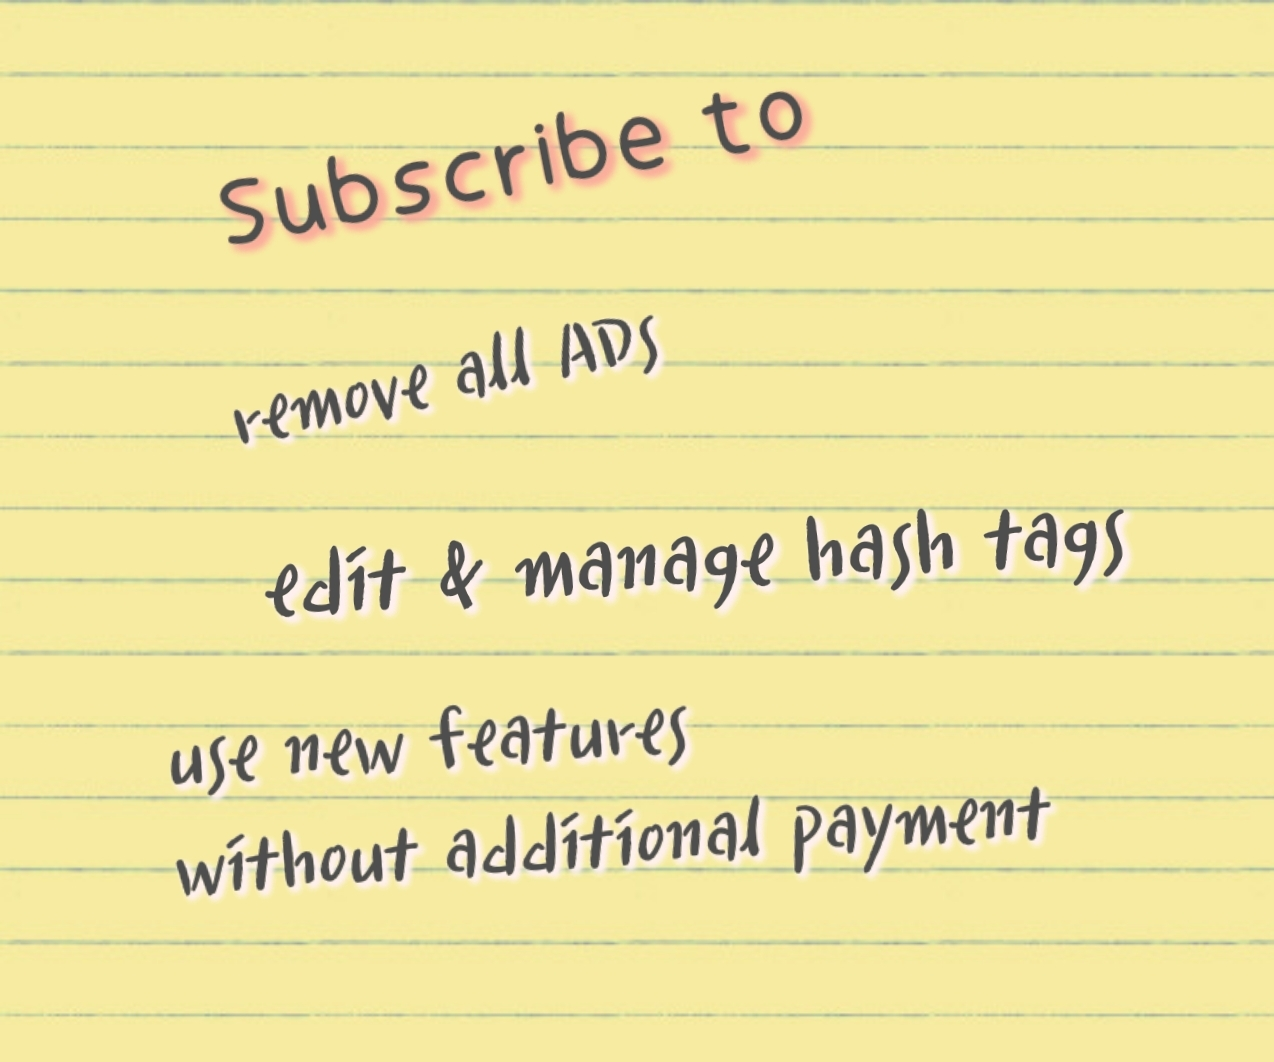
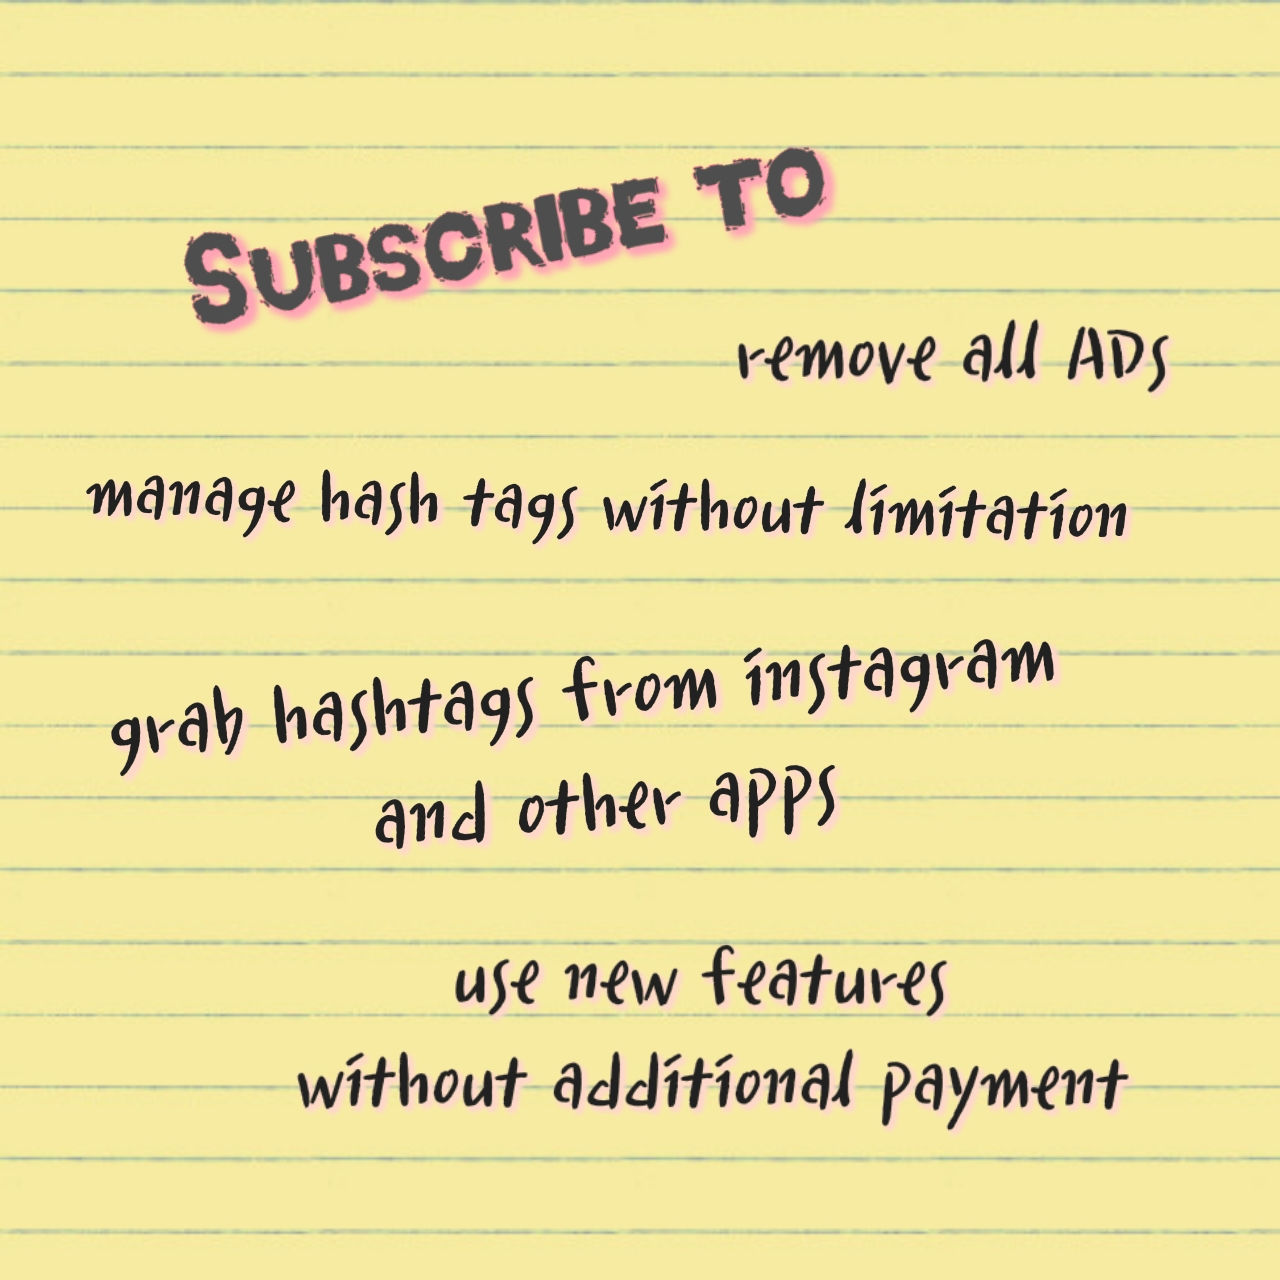
add some....

Changed region(s): [[0.0, 0.0311, 1.0, 0.9633], [0.7653, 0.1243, 0.7959, 0.1554]]

diff --git a/example/lib/ui/pages/main/tag_list_page.dart b/example/lib/ui/pages/main/tag_list_page.dart
@@ -6,6 +6,7 @@ import 'package:neon/neon.dart';
 import 'package:screen_capture_event_example/common/ad/banner_ad_widget.dart';
 import 'package:screen_capture_event_example/common/lifecycle/lifecycle_watcher_state.dart';
 import 'package:screen_capture_event_example/common/payment/payment_service.dart';
+import 'package:screen_capture_event_example/common/util/file_utils.dart';
 import 'package:screen_capture_event_example/common/util/time_utils.dart';
 import 'package:screen_capture_event_example/model/hashtag.dart';
 import 'package:screen_capture_event_example/repositories/hashtag_repository.dart';
@@ -66,7 +67,7 @@ class _TagListPageState extends LifecycleWatcherState<TagListPage> {
         image: null,
         packageImage: PackageImage.Image_1,
         title: 'No hash tags',
-        subTitle: 'Grab hash tags from Instagram!',
+        subTitle: 'Grab hash tags!',
         titleTextStyle: const TextStyle(
           fontSize: 22,
           color: Color(0xff9da9c7),

diff --git a/example/lib/repositories/hashtag_repository.dart b/example/lib/repositories/hashtag_repository.dart
@@ -1,5 +1,6 @@
 import 'package:screen_capture_event_example/common/sqlite/hashtag_db.dart';
 import 'package:screen_capture_event_example/common/sqlite/hashtag_table.dart';
+import 'package:screen_capture_event_example/common/util/file_utils.dart';
 import 'package:screen_capture_event_example/common/util/time_utils.dart';
 
 class HashTagRepository {
@@ -8,7 +9,7 @@ class HashTagRepository {
 
   static Future<int> save(final Map<String, dynamic> data) async {
     data['favorite'] = 0;
-    data['title'] = 'copied from Instagram';
+    data['title'] = 'copied from ' +  FileUtils.getCurrentApp();
 
     return await HashTagDb().insert(TABLE, data);
   }

diff --git a/example/lib/common/util/file_utils.dart b/example/lib/common/util/file_utils.dart
@@ -1,5 +1,7 @@
 import 'dart:io';
 
+import 'package:screen_capture_event_example/common/payment/payment_service.dart';
+
 class FileUtils {
   static Directory BASE_DIR = Directory('/storage/emulated/0/DCIM/Screenshots');
 
@@ -8,6 +10,14 @@ class FileUtils {
   }
 
   static bool isTarget(final String path) {
-     return path.contains("Instagram");
+    if (!PaymentService.instance.isPro()) {
+      return path.toLowerCase().contains("instagram");
+    }
+   return true;
+  }
+
+  static String getCurrentApp() {
+    final String path = getLastScreenShot().path;
+    return path.substring(path.lastIndexOf("_") + 1, path.lastIndexOf("."));
   }
 }
